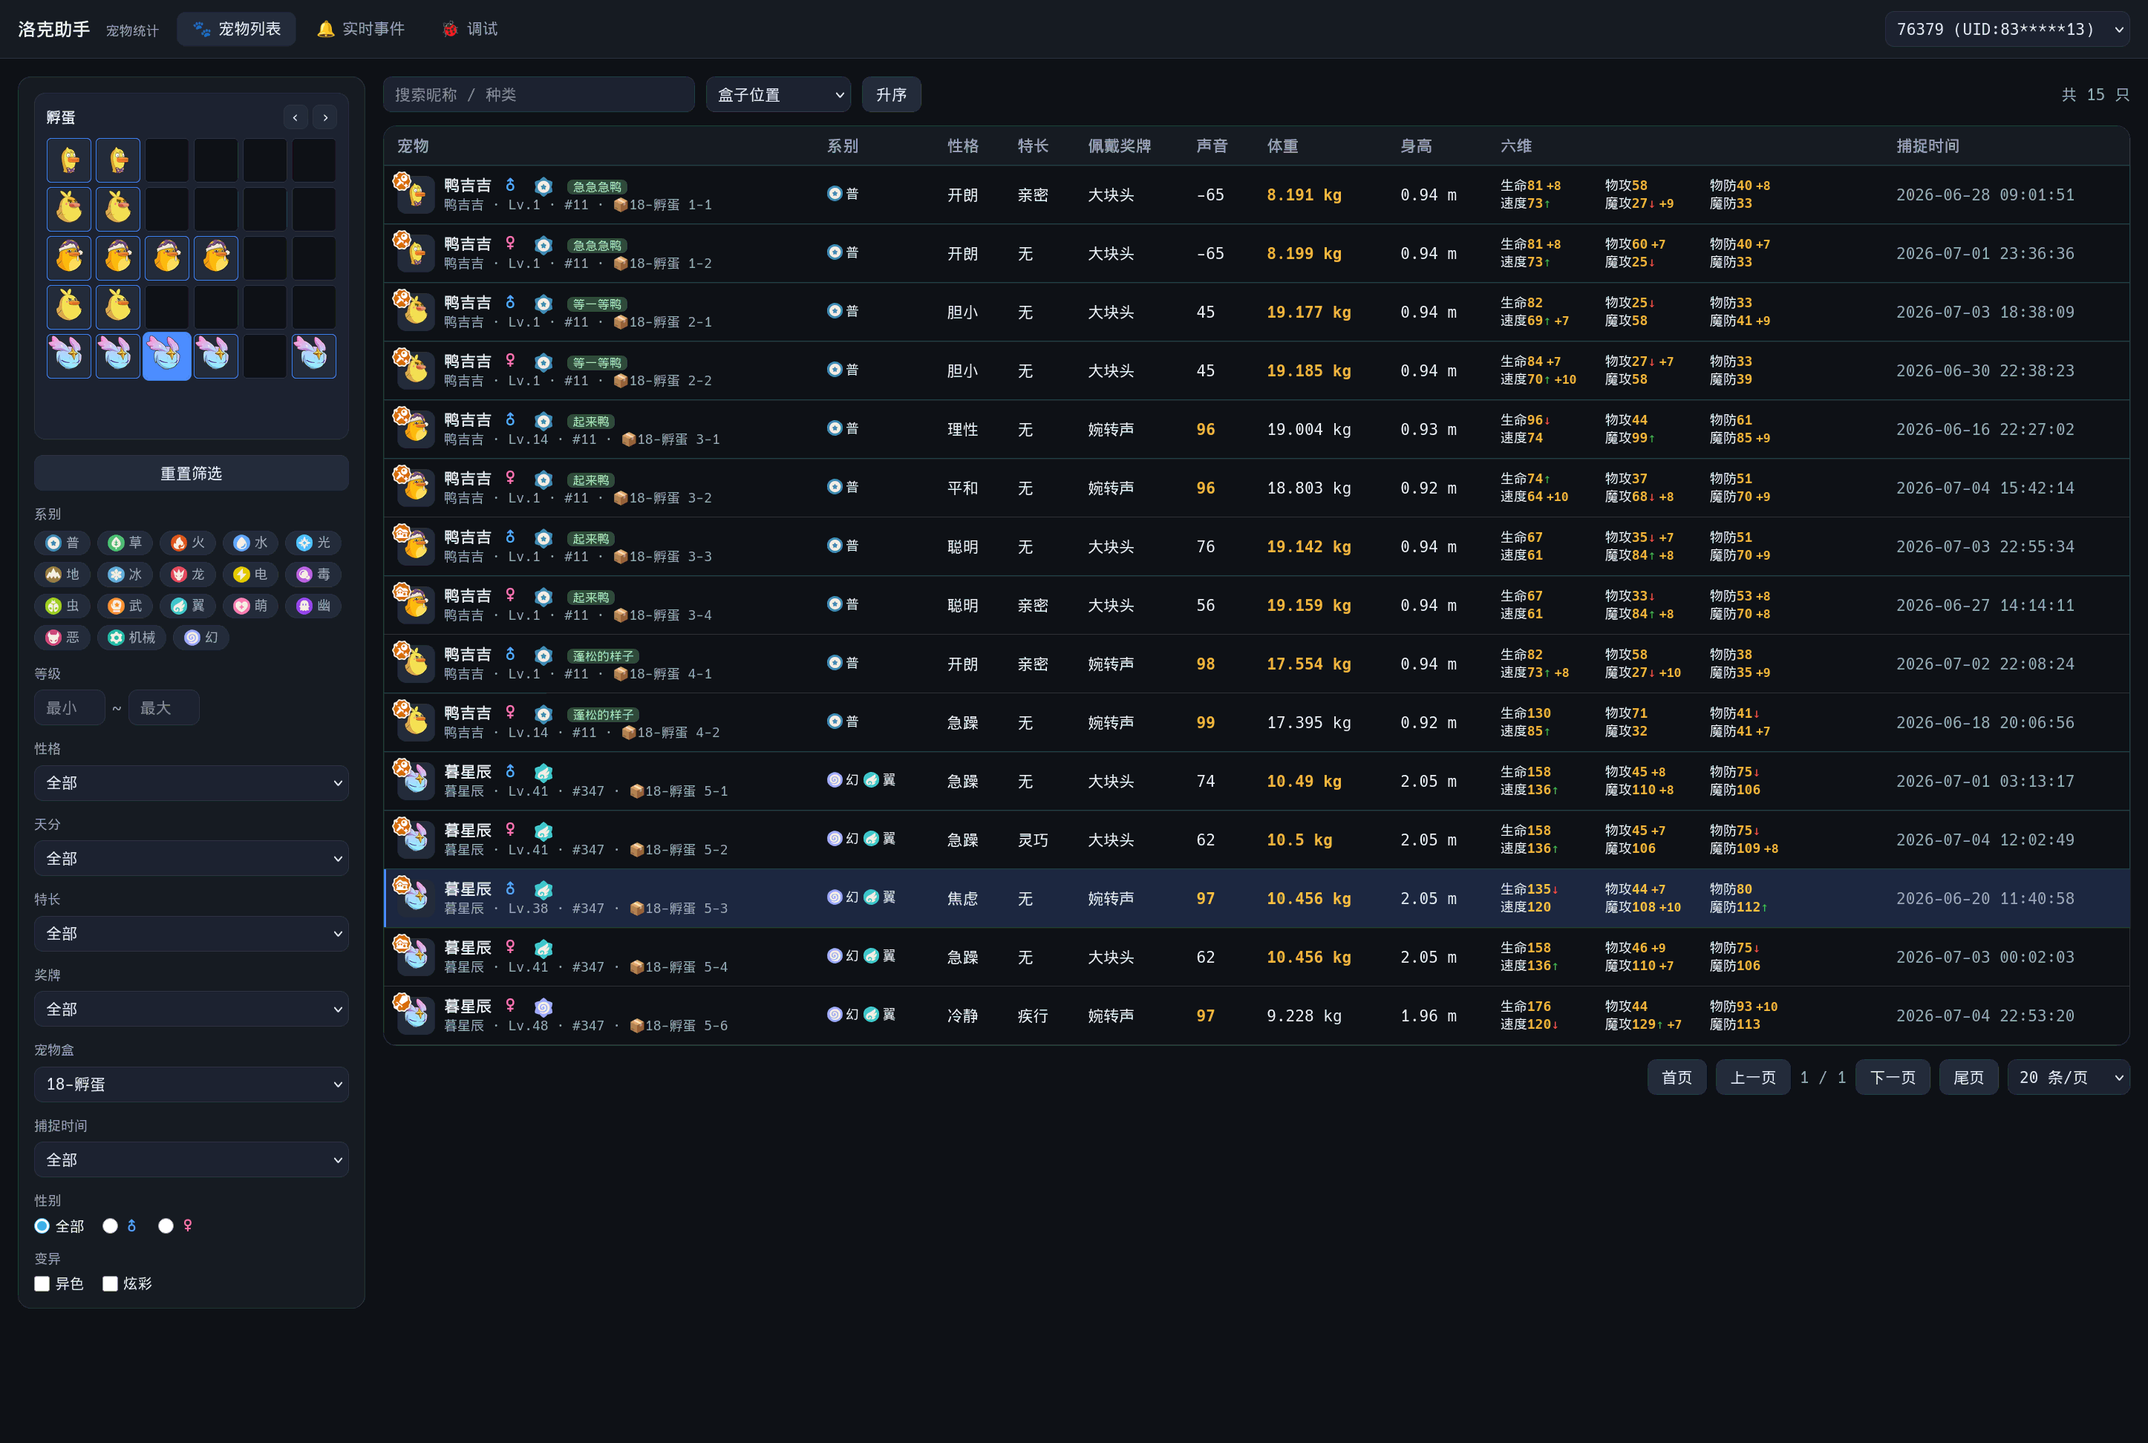
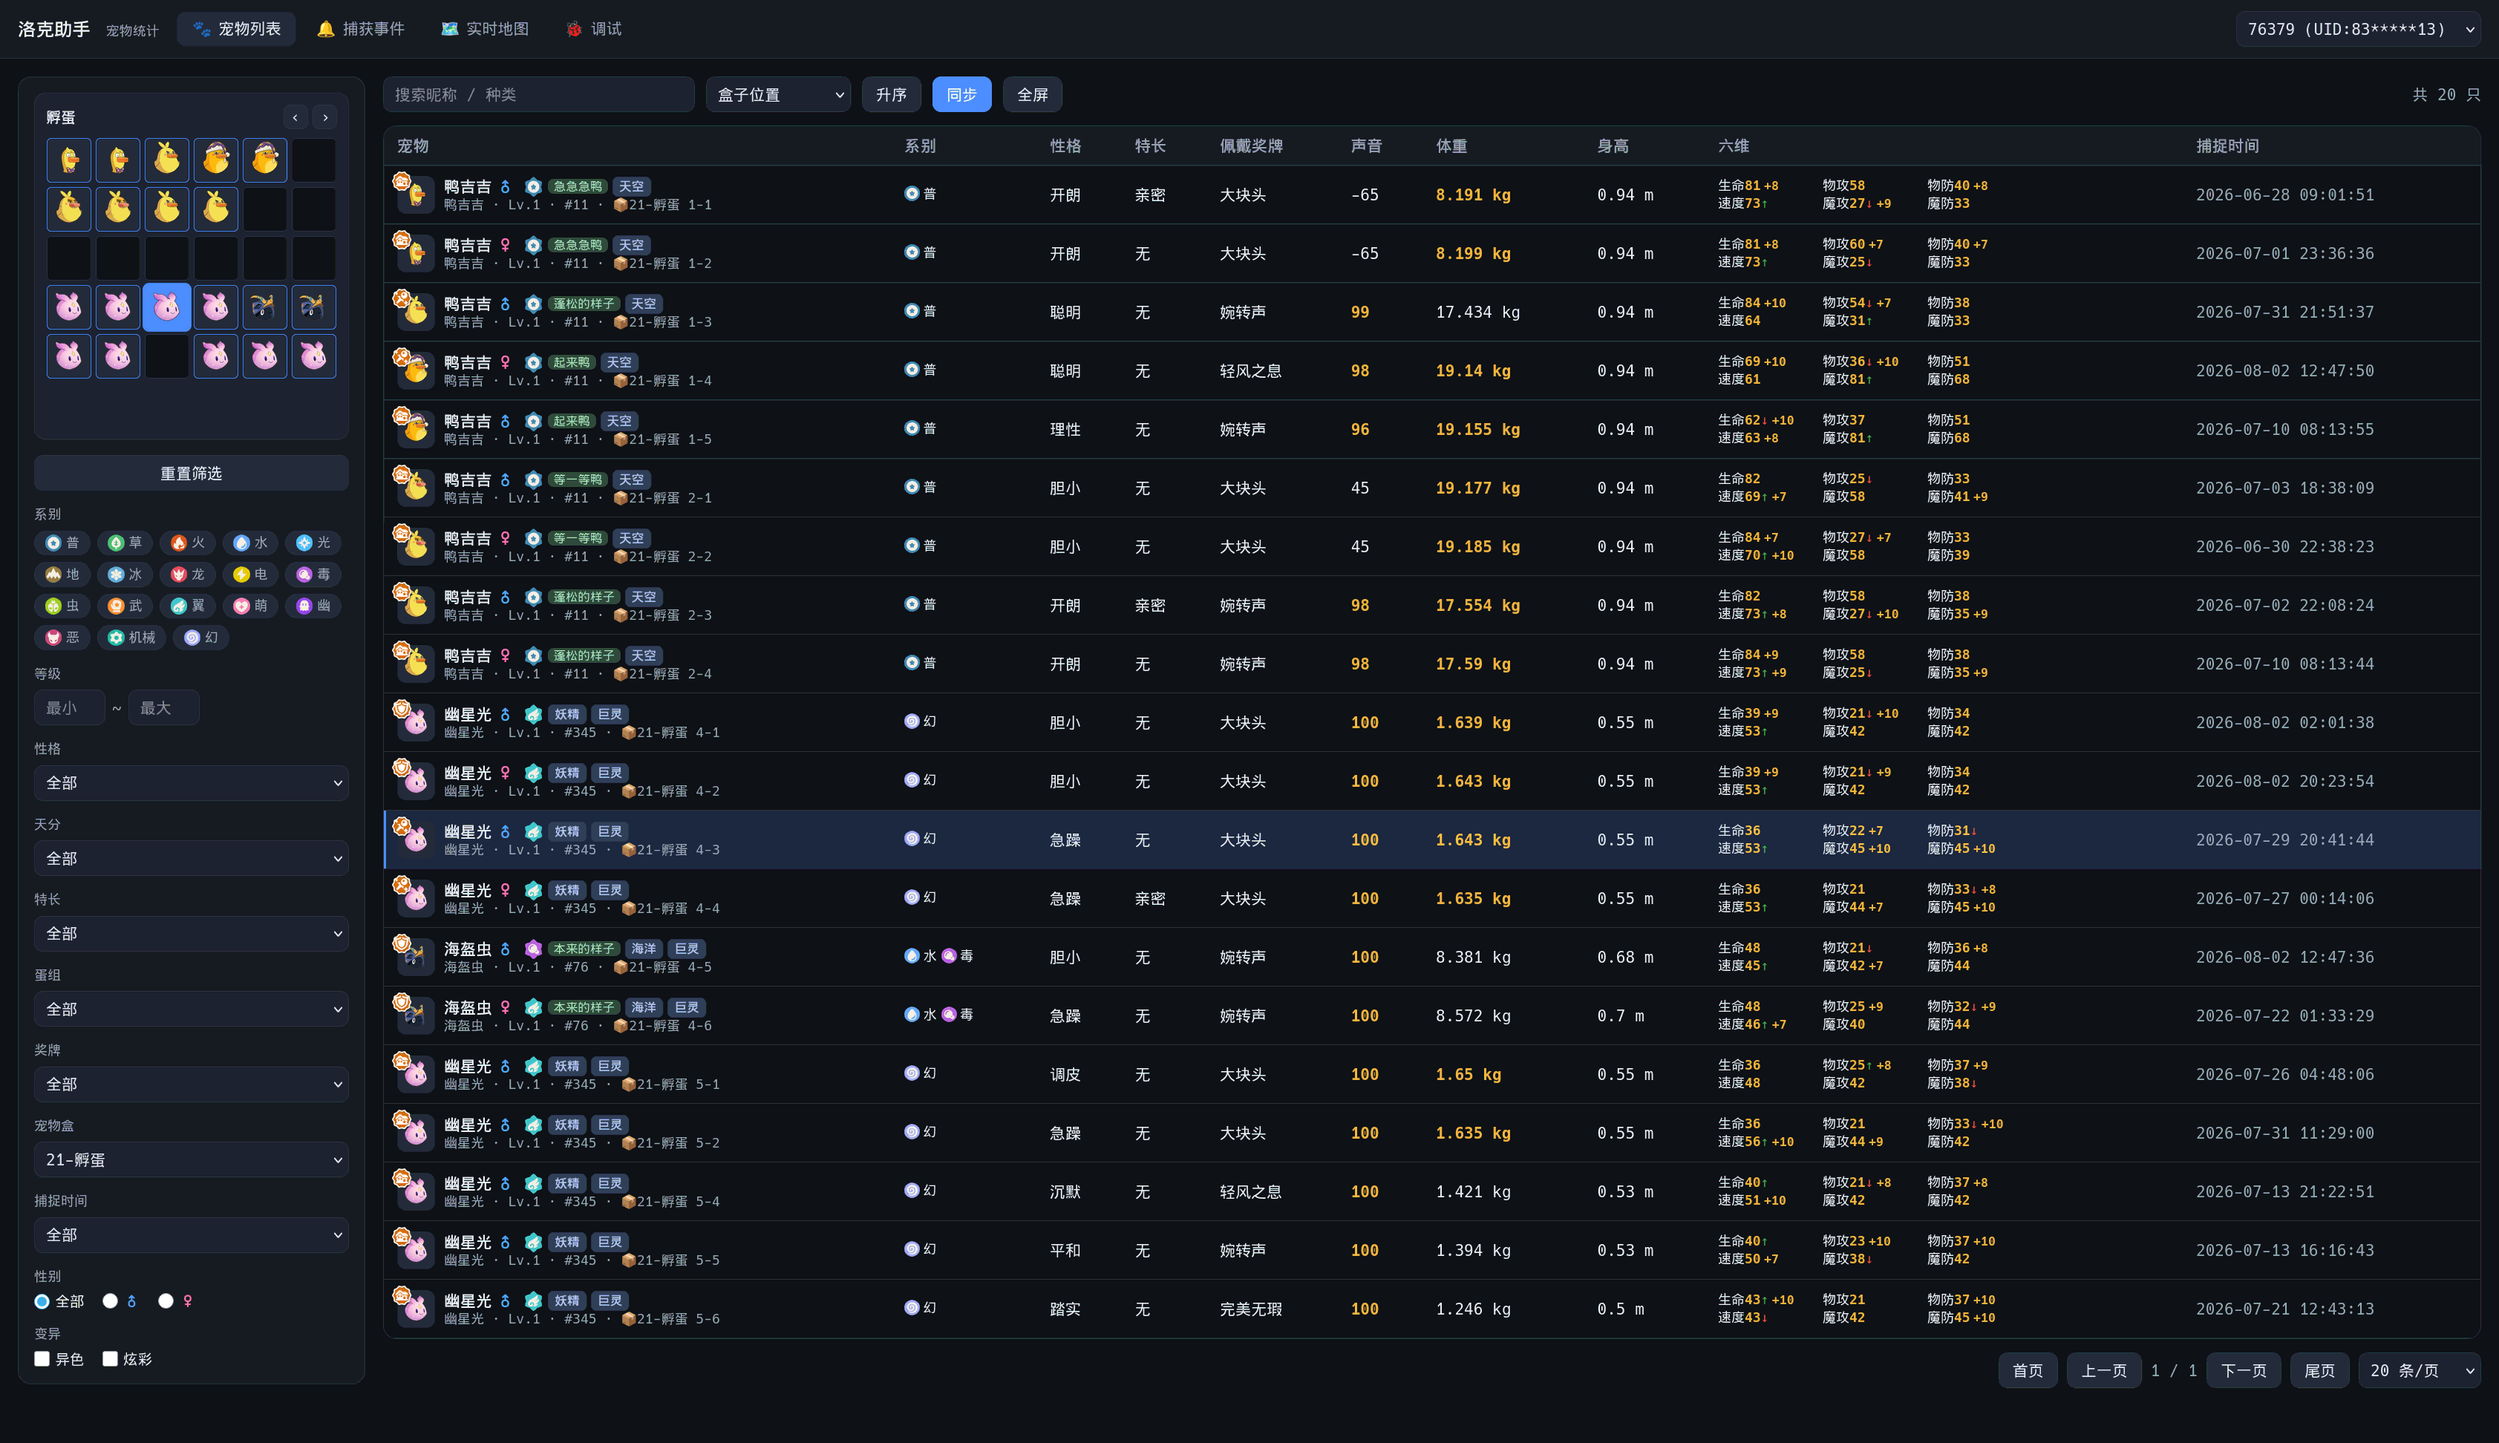
docs: history 实时地图稀有宠物位置显示 + rocom-pets 迭代 + 截图更新

diff --git a/HISTORY.md b/HISTORY.md
@@ -633,3 +633,55 @@ GPU 抓帧的实现方式是什么样的
 已测试并修改 SCREEN_REF 为 2.0
 整理两个仓库的历史提交，将 3D 解包及渲染相关文档/脚本尽量从 rocom-capture 挪到 rocom-pets 仓库
 ```
+
+### 2026-07-31-optimize-3d-pets
+https://github.com/whoisnian/rocom-pets
+```md
+整理项目当前状态及后续计划
+安卓安装包在 ~/Downloads/rocom/com.tencent.nrc.apk，根据另一调研记录 ~/Downloads/android-shaders.md，可以利用 adb root 从安卓手机提取应用私有数据，分析这些私有数据是否有助于还原 3D 渲染效果
+继续 xN
+
+不再继续追渲染细节，开始补充 windows 后端
+在 windows 上启动后，只有任务栏可点击，屏幕其他区域点击失效
+在 windows 上双击 exe 后调试精灵未显示，手动在任务栏点击召回宠物后显示在屏幕中央，拖动后落到任务栏上方
+宠物之外窗口正常，复制了火花可以正常显示，但托盘菜单里只有 鼠标穿透/召回宠物/叫声/退出 四个选项
+
+接下来实现 rkpet 宠物包，托盘菜单中列出常用配置及宠物配置，在独立的宠物配置窗口中进行管理：
+* 宠物包管理，列表支持导入/查找/删除，后续可额外从网络下载
+* 活跃宠物管理，支持添加/删除宠物，修改宠物选项，如性格/表情/形态/大小等
+
+claude design:
+> https://github.com/whoisnian/rocom-pets 是一个桌面宠物应用，需要设计托盘菜单和配置弹窗，尽量模拟系统原生样式，系统仅考虑 Linux KDE Wayland 和 Windows 11
+
+托盘菜单去掉第一行的在场数量统计，开关顺序调整为 点击穿透/静音叫声/召回宠物 | 常用配置/完整配置/重新载入 | 退出
+托盘菜单中的常用配置包含 帧率设置：20/30/60，大小倍率：50%/100%/150%/自定义，叫声音量：静音/30%/60%/100%
+完整配置默认打开窗口的常用配置页，取消自动降帧的优化，帧率设置含义为目标帧率而不是帧率上限
+完整配置中的大小和声音滑条右侧值支持编辑，超出限制时自动回到上下限，滑条和编辑框的值保持同步，大小单位也用百分比表示
+当前拖动滑条过程中出现的“已修改 1 项,均已即时生效”提示会导致位置改变，可以在原位置持久显示修改即时生效的提示来避免位置改变
+在托盘菜单点击退出时一同关闭配置窗口，托盘菜单中的 常用配置 直接拆分为 帧率设置/大小倍率/叫声音量 三项，分割线后是 首选项/重新载入/退出 三项
+独立配置窗口中常用配置移到宠物包上方，移除左下角的配置目录路径，移除全局热键功能及相关配置
+弹窗”查看改动“的内容距离边缘过近，适当增加边距，宠物包页面的删除弹窗也有同样问题
+宠物包页面的搜索输入框内容未上下居中，右侧导入按钮可以拆分为两个，宠物列表的左右间距过小，右侧出现滚动条时甚至会遮挡表格内容
+深色模式下的白色滚动条过亮了，可以参考本机 KDE Breeze Dark，截图在 ~/Pictures/Screenshots/Screenshot_20260802.png
+游戏内的部分性格宠物会有不同的默认表情，尝试从解包数据中查找映射规则，在活跃宠物配置页面设置性格时自动切换默认表情，不需要选择表情池；宠物嗓音默认值均为0，可手动重掷；动作以表格形式展示为一组按钮，缺失时置灰，点击可手动触发动作
+
+对表情的理解不一致，游戏内性格对表情的影响体现在眼睛上，参考三方攻略中幽星光的不同性格眼睛截图 ~/Downloads/IMG_2154.jpeg
+动作表格不需要真的独立表格，和上方条目布局保持一致，提示信息“点一下就在桌面上播一次;灰的是这只没有的”缩短为“点击预览”
+整理一下活跃宠物配置页面需要保留哪些性格选项，移除无法编辑的表情行
+活跃宠物配置页面的性格选项直接带上眼睛，例如`胆小「哭哭眼」`，方便直接选择，下拉菜单避免滚动条
+嗓音改为输入框，支持手动输入 -100 到 100，超出范围自动回到上下限
+游戏内宠物在对应动作时也会改变眼睛，例如 哭哭眼 的幽星光在生气时也会变成 生气眼，睡觉时变成 困倦眼
+活跃宠物配置页面的幽星光点击“睡着”按钮时日志中显示“手动播 睡着(这只没有这段)”，但游戏内会有身体略微前倾，眼睛变成困倦眼，头旁边冒出 ZZZ 的动作，截图在 ~/Downloads/sleep.1.png，另一急躁大耳帽兜睡着的截图在 ~/Downloads/sleep.2.png
+游戏内符号会区分不同的颜色，例如淡黄色的 ZZZ，红色的井号怒，白色的问号，绿色的音符，粉色的爱心
+实机符号效果与游戏区别太大，放弃模拟复现，删除相关代码和文档
+```
+
+### 2026-08-02-pets-in-live-map
+```md
+抓包得到 ./pcap/rocom-20260802-190313.pcap00，登录后周围刷新了野生宠物，直接丢球捕捉了一个珀尔鼬和一个友爱天天，对比野生宠物和捕捉后的宠物数据，有哪些属性是在捕捉前后保持一致的
+在实时地图页面上显示几类宠物的位置，一类是 voice 达到 100 的，一类是 glass_info 非 GT_NULL 的，异色炫彩也单独显示
+抓包得到 ./pcap/rocom-20260802-204107.pcap00，登录后周围有一只被污染的爬爬，进入战斗后释放攻击技能，打空血量后解除污染，捕捉到一只普通爬爬
+捕捉成功的结果内是否有相关字段，期望战斗外直接扔球捕捉的也可以标记消失
+异色/炫彩 合并为一个选项，且默认勾选；“叫声 100”修改为“满声音”；按钮不需要悬浮提示；地图上的图标增加鼠标光标变化，悬浮提示格式为 `{种类} Lv.XX {异色/炫彩/污染/满声音} W 18% V -65`；置灰保留时间改为四小时
+抓包得到 ./pcap/rocom-20260802-235805.pcap00，登录后周围有一只被污染的矿晶虫，进入战斗后释放攻击技能，打空血量后击杀，击杀后可直接移除不需要置灰保留
+```

diff --git a/README.md b/README.md
@@ -18,9 +18,11 @@
 
 ## 效果预览
 
-| 宠物列表 | 宠物详情 |
-| --- | --- |
-| ![宠物列表](docs/images/pet-list.webp) | ![宠物详情](docs/images/pet-detail.webp) |
+### 宠物列表
+![宠物列表](docs/images/pet-list.webp)
+
+### 实时地图
+![实时地图](docs/images/live-map.webp)
 
 ## 架构
 
